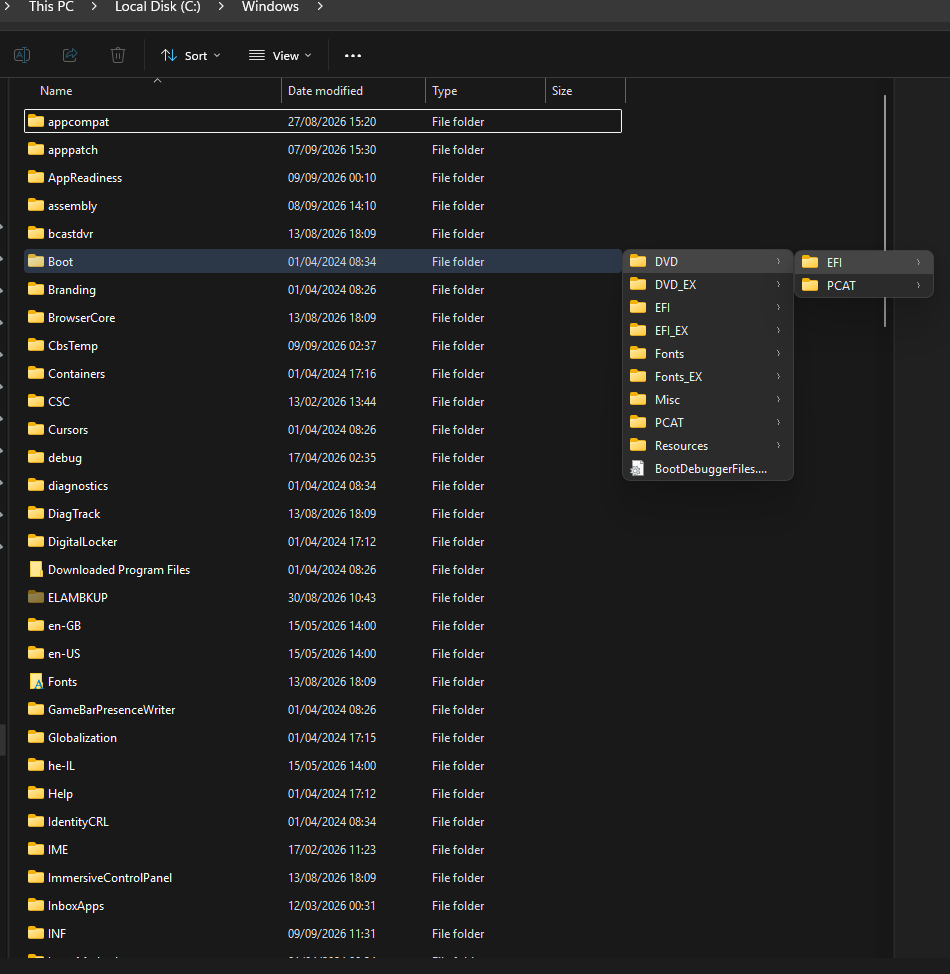
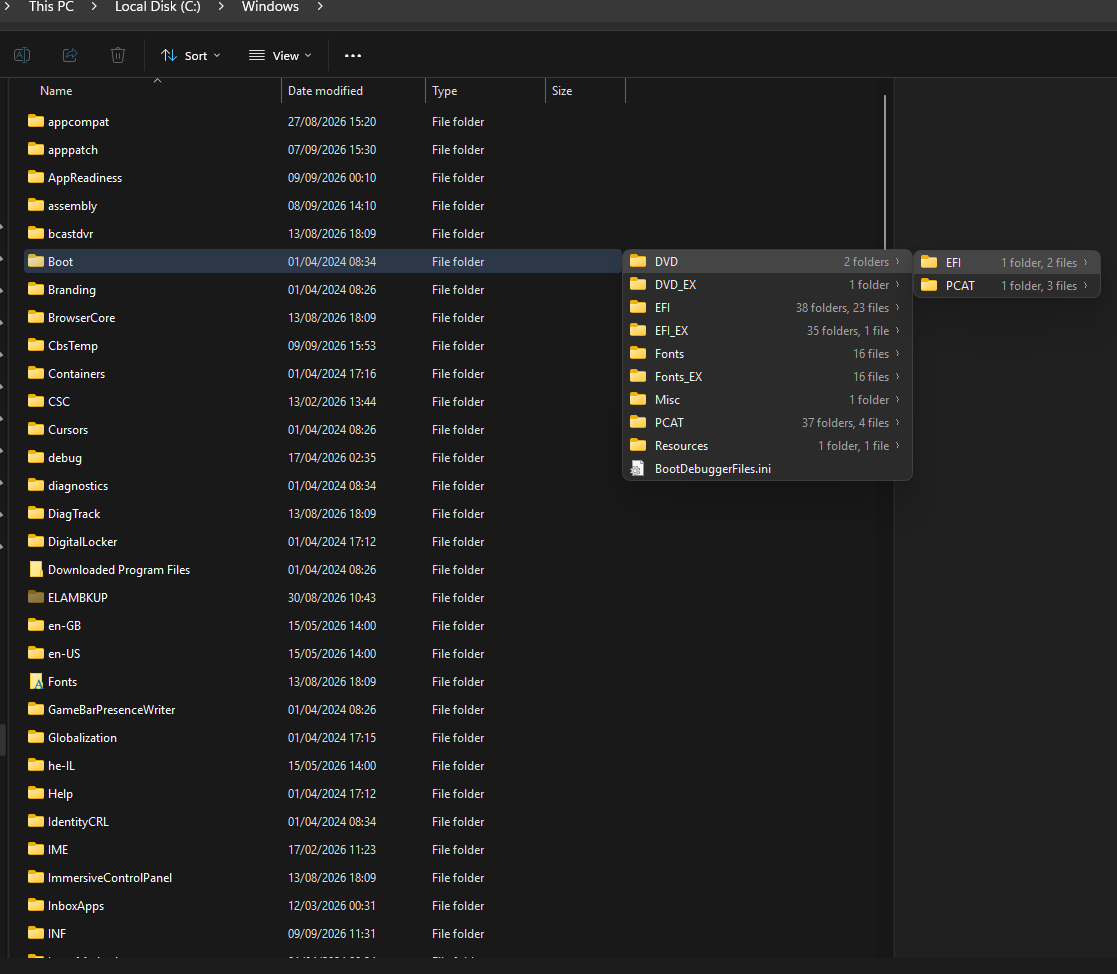
Annotate folder rows with what they hold
A folder row now reads "8 folders, 1 file", right aligned and dimmed, so a
busy folder is obvious before opening it. Behind a tray toggle, nested under
subfolder tips.

Counts are immediate children only. Recursive totals were considered and
dropped: they mean walking a whole tree, which is why Explorer itself shows no
folder size in a details view. Counting also stops at 2000 entries and reports
"2000+ items", so a single enormous folder cannot hold up a tip.

Measured rather than assumed: listing C:\Windows, whose children include
WinSxS and System32, costs 192ms with counting against 13ms for an ordinary
folder. With counts off the cost disappears - the code then only asks whether
a folder is empty, which stops at its first entry rather than reading the
directory.

Also widens a tip when it carries a second column, and gives the name column a
few pixels of slack: GetTextExtentPoint32W and DrawTextW disagree by a pixel,
so an exactly-sized column was ellipsising names that fitted.

diff --git a/src/ExplorerExtras/core/ShellItems.cpp b/src/ExplorerExtras/core/ShellItems.cpp
@@ -7,8 +7,10 @@
 #include <wrl/client.h>
 
 #include <algorithm>
+#include <cstdio>
 
 #include "Logging.h"
+#include "Settings.h"
 
 using Microsoft::WRL::ComPtr;
 
@@ -23,6 +25,45 @@ std::wstring DisplayNameOf(IShellItem* item, SIGDN form) {
     return value;
 }
 
+// Counting stops here. A handful of folders on any machine hold six figures of
+// entries, and a tip listing hundreds of folders must not pay for that; past
+// this point the exact number tells the user nothing anyway.
+constexpr int kMaxCountedChildren = 2000;
+
+// Immediate children only. Recursive totals were considered and rejected: they
+// mean walking whole trees, which is why Explorer itself does not show folder
+// sizes in a details view.
+void CountChildren(const std::wstring& path, ShellEntry* entry) {
+    std::wstring pattern = path;
+    if (pattern.empty()) return;
+    if (pattern.back() != L'\\') pattern += L'\\';
+    pattern += L'*';
+
+    WIN32_FIND_DATAW found{};
+    const HANDLE search = FindFirstFileExW(pattern.c_str(), FindExInfoBasic, &found,
+                                           FindExSearchNameMatch, nullptr, 0);
+    if (search == INVALID_HANDLE_VALUE) return;
+
+    entry->counted = true;
+    do {
+        const wchar_t* name = found.cFileName;
+        if (name[0] == L'.' && (name[1] == L'\0' || (name[1] == L'.' && name[2] == L'\0'))) continue;
+
+        if (found.dwFileAttributes & FILE_ATTRIBUTE_DIRECTORY) {
+            ++entry->child_folders;
+        } else {
+            ++entry->child_files;
+        }
+
+        if (entry->child_folders + entry->child_files >= kMaxCountedChildren) {
+            entry->capped = true;
+            break;
+        }
+    } while (FindNextFileW(search, &found));
+
+    FindClose(search);
+}
+
 int IconIndexFor(const std::wstring& path) {
     SHFILEINFOW info{};
     const DWORD_PTR result = SHGetFileInfoW(path.c_str(), 0, &info, sizeof(info),
@@ -31,6 +72,28 @@ int IconIndexFor(const std::wstring& path) {
 }
 
 }  // namespace
+
+std::wstring DescribeChildCount(const ShellEntry& entry) {
+    if (!entry.is_folder || !entry.counted) return {};
+
+    const int folders = entry.child_folders;
+    const int files = entry.child_files;
+    if (folders + files == 0) return {};
+
+    wchar_t buffer[64];
+    if (entry.capped) {
+        // The breakdown would be misleading once counting stopped early.
+        _snwprintf_s(buffer, _TRUNCATE, L"%d+ items", folders + files);
+    } else if (folders > 0 && files > 0) {
+        _snwprintf_s(buffer, _TRUNCATE, L"%d %s, %d %s", folders,
+                     folders == 1 ? L"folder" : L"folders", files, files == 1 ? L"file" : L"files");
+    } else if (folders > 0) {
+        _snwprintf_s(buffer, _TRUNCATE, L"%d %s", folders, folders == 1 ? L"folder" : L"folders");
+    } else {
+        _snwprintf_s(buffer, _TRUNCATE, L"%d %s", files, files == 1 ? L"file" : L"files");
+    }
+    return buffer;
+}
 
 HBITMAP LoadThumbnail(const std::wstring& path, int max_edge) {
     ComPtr<IShellItemImageFactory> factory;
@@ -190,10 +253,19 @@ std::vector<ShellEntry> EnumerateFolder(const std::wstring& folder_path, size_t 
         entry.icon_index = entry.parsing_path.empty() ? -1 : IconIndexFor(entry.parsing_path);
 
         if (entry.is_folder && !entry.parsing_path.empty()) {
-            // One FindFirstFile per folder. Skipped for UNC paths, where the
-            // round trip is not worth it just to decide whether to draw an arrow.
+            // One directory pass per folder. Skipped for UNC paths, where the
+            // round trip is not worth it just to annotate a row.
             const bool unc = entry.parsing_path.rfind(L"\\\\", 0) == 0;
-            entry.has_children = unc || !PathIsDirectoryEmptyW(entry.parsing_path.c_str());
+            if (unc) {
+                entry.has_children = true;  // assume so rather than pay to find out
+            } else if (Config().folderItemCounts.load(std::memory_order_relaxed)) {
+                CountChildren(entry.parsing_path, &entry);
+                entry.has_children = entry.child_folders + entry.child_files > 0;
+            } else {
+                // Not showing counts: only ever ask whether it is empty, which
+                // stops at the first entry instead of reading the directory.
+                entry.has_children = !PathIsDirectoryEmptyW(entry.parsing_path.c_str());
+            }
         }
 
         entries.push_back(std::move(entry));

diff --git a/src/ExplorerExtras/ui/TipWindow.cpp b/src/ExplorerExtras/ui/TipWindow.cpp
@@ -18,6 +18,8 @@ constexpr UINT kExpandDelayMs = 250;
 constexpr int kMaxRows = 28;
 constexpr int kMinWidthDip = 140;
 constexpr int kMaxWidthDip = 420;
+constexpr int kMaxWidthWithCountsDip = 560;
+constexpr int kCountGapDip = 20;
 
 int Scale(int dip, UINT dpi) {
     return MulDiv(dip, static_cast<int>(dpi), 96);
@@ -87,18 +89,34 @@ SIZE TipWindow::Measure(const RECT& work_area) {
     row_height_ = std::max<int>(Scale(icon_size_, dpi_) + Scale(6, dpi_), tm.tmHeight + Scale(8, dpi_));
 
     int widest = 0;
+    int widest_count = 0;
     for (const auto& entry : entries_) {
         SIZE extent{};
         GetTextExtentPoint32W(dc, entry.display_name.c_str(),
                               static_cast<int>(entry.display_name.size()), &extent);
         widest = std::max(widest, static_cast<int>(extent.cx));
+
+        const std::wstring count = DescribeChildCount(entry);
+        if (count.empty()) continue;
+        SIZE count_extent{};
+        GetTextExtentPoint32W(dc, count.c_str(), static_cast<int>(count.size()), &count_extent);
+        widest_count = std::max(widest_count, static_cast<int>(count_extent.cx));
     }
 
     SelectObject(dc, previous);
     ReleaseDC(window_, dc);
 
-    const int width = std::clamp(text_left_ + widest + chevron_ + pad_, Scale(kMinWidthDip, dpi_),
-                                 Scale(kMaxWidthDip, dpi_));
+    // A couple of pixels of slack: GetTextExtentPoint32W and DrawTextW do not
+    // agree to the pixel, and an exactly-sized column ellipsises a name that
+    // would otherwise fit.
+    widest += Scale(6, dpi_);
+    count_column_ = widest_count;
+    const int gap = widest_count > 0 ? Scale(kCountGapDip, dpi_) : 0;
+    // Allow a wider tip when there is a second column, so names are not
+    // squeezed into ellipses to make room for the counts.
+    const int max_width = Scale(widest_count > 0 ? kMaxWidthWithCountsDip : kMaxWidthDip, dpi_);
+    const int width = std::clamp(text_left_ + widest + gap + widest_count + chevron_ + pad_,
+                                 Scale(kMinWidthDip, dpi_), max_width);
 
     const int room = (work_area.bottom - work_area.top) / std::max(row_height_, 1) - 1;
     const int rows = static_cast<int>(entries_.size()) + (truncated_ ? 1 : 0);
@@ -325,12 +343,24 @@ void TipWindow::OnPaint() {
                            row.top + (row_height_ - Scale(icon_size_, dpi_)) / 2, ILD_TRANSPARENT);
         }
 
+        const std::wstring count = DescribeChildCount(entry);
+
         SetTextColor(memory, palette.text);
         RECT text = row;
         text.left += text_left_;
         text.right -= chevron_ + pad_;
+        if (count_column_ > 0) text.right -= count_column_ + Scale(kCountGapDip, dpi_);
         DrawTextW(memory, entry.display_name.c_str(), -1, &text,
                   DT_SINGLELINE | DT_VCENTER | DT_END_ELLIPSIS | DT_NOPREFIX);
+
+        if (!count.empty()) {
+            SetTextColor(memory, palette.dim);
+            RECT counts = row;
+            counts.right = client.right - pad_ - chevron_;
+            counts.left = counts.right - count_column_;
+            DrawTextW(memory, count.c_str(), -1, &counts,
+                      DT_SINGLELINE | DT_VCENTER | DT_RIGHT | DT_NOPREFIX);
+        }
 
         if (entry.is_folder && entry.has_children) {
             // A small chevron, drawn rather than glyphed so it needs no font.

diff --git a/src/ExplorerExtras/core/Settings.cpp b/src/ExplorerExtras/core/Settings.cpp
@@ -34,6 +34,7 @@ Settings LoadSettings() {
     s.enabled = ReadBool(path, L"Enabled", s.enabled);
     s.navigateUpOnDoubleClick = ReadBool(path, L"NavigateUpOnDoubleClick", s.navigateUpOnDoubleClick);
     s.subfolderTips = ReadBool(path, L"SubfolderTips", s.subfolderTips);
+    s.folderItemCounts = ReadBool(path, L"FolderItemCounts", s.folderItemCounts);
     s.filePreviews = ReadBool(path, L"FilePreviews", s.filePreviews);
     s.mediaPlayback = ReadBool(path, L"MediaPlayback", s.mediaPlayback);
     s.mediaAutoPlay = ReadBool(path, L"MediaAutoPlay", s.mediaAutoPlay);
@@ -47,6 +48,7 @@ void SaveSettings(const Settings& settings) {
     WriteBool(path, L"Enabled", settings.enabled);
     WriteBool(path, L"NavigateUpOnDoubleClick", settings.navigateUpOnDoubleClick);
     WriteBool(path, L"SubfolderTips", settings.subfolderTips);
+    WriteBool(path, L"FolderItemCounts", settings.folderItemCounts);
     WriteBool(path, L"FilePreviews", settings.filePreviews);
     WriteBool(path, L"MediaPlayback", settings.mediaPlayback);
     WriteBool(path, L"MediaAutoPlay", settings.mediaAutoPlay);
@@ -62,6 +64,7 @@ void ApplyToConfig(const Settings& settings) {
     Config().enabled.store(settings.enabled, std::memory_order_relaxed);
     Config().navigateUpOnDoubleClick.store(settings.navigateUpOnDoubleClick, std::memory_order_relaxed);
     Config().subfolderTips.store(settings.subfolderTips, std::memory_order_relaxed);
+    Config().folderItemCounts.store(settings.folderItemCounts, std::memory_order_relaxed);
     Config().filePreviews.store(settings.filePreviews, std::memory_order_relaxed);
     Config().mediaPlayback.store(settings.mediaPlayback, std::memory_order_relaxed);
     Config().mediaAutoPlay.store(settings.mediaAutoPlay, std::memory_order_relaxed);

diff --git a/src/ExplorerExtras/core/ShellItems.h b/src/ExplorerExtras/core/ShellItems.h
@@ -19,6 +19,13 @@ struct ShellEntry {
     // Folders only. An empty folder gets no expand chevron, because offering to
     // open something with nothing in it is a lie.
     bool has_children = false;
+    // Immediate children, not recursive. counted is false where we did not
+    // look (a network path); capped is true where we stopped early, so the
+    // figures shown are a floor rather than a total.
+    bool counted = false;
+    bool capped = false;
+    int child_folders = 0;
+    int child_files = 0;
     int icon_index = -1;  // index into SystemSmallImageList()
 };
 
@@ -39,6 +46,11 @@ std::vector<ShellEntry> EnumerateFolder(const std::wstring& folder_path, size_t 
                                         bool* truncated);
 
 // The shared system small-icon image list. Never destroy it.
+// The count annotation for a folder row: "3 folders, 12 files", or
+// "2000+ items" where counting was cut short. Empty for files, for folders we
+// did not count, and for empty folders.
+std::wstring DescribeChildCount(const ShellEntry& entry);
+
 // Shell thumbnail for a file, or null when it has none. Caller owns the bitmap.
 // Synchronous, so only for things known to be quick — embedded album art is,
 // video frames are not (those go through ThumbnailLoader).

diff --git a/src/ExplorerExtras/host/TrayHost.cpp b/src/ExplorerExtras/host/TrayHost.cpp
@@ -141,6 +141,10 @@ void TrayHost::ShowContextMenu() {
                     (settings_.enabled ? MF_ENABLED : MF_GRAYED),
                 IDM_SUBFOLDER_TIPS, L"Subfolder tips on hover");
     AppendMenuW(menu,
+                MF_STRING | (settings_.folderItemCounts ? MF_CHECKED : MF_UNCHECKED) |
+                    (settings_.enabled && settings_.subfolderTips ? MF_ENABLED : MF_GRAYED),
+                IDM_FOLDER_COUNTS, L"    Show item counts on folders");
+    AppendMenuW(menu,
                 MF_STRING | (settings_.filePreviews ? MF_CHECKED : MF_UNCHECKED) |
                     (settings_.enabled ? MF_ENABLED : MF_GRAYED),
                 IDM_FILE_PREVIEWS, L"File previews on hover");
@@ -190,6 +194,11 @@ void TrayHost::OnCommand(UINT id) {
 
         case IDM_SUBFOLDER_TIPS:
             settings_.subfolderTips = !settings_.subfolderTips;
+            PersistAndApply();
+            break;
+
+        case IDM_FOLDER_COUNTS:
+            settings_.folderItemCounts = !settings_.folderItemCounts;
             PersistAndApply();
             break;
 

diff --git a/src/ExplorerExtras/core/Settings.h b/src/ExplorerExtras/core/Settings.h
@@ -9,6 +9,8 @@ struct Settings {
     bool enabled = true;
     bool navigateUpOnDoubleClick = true;
     bool subfolderTips = true;
+    // Annotate folder rows with how many items they hold.
+    bool folderItemCounts = true;
     bool filePreviews = true;
     bool mediaPlayback = true;
     // Only meaningful when mediaPlayback is on: whether hovering starts
@@ -27,6 +29,7 @@ struct RuntimeConfig {
     std::atomic<bool> enabled{true};
     std::atomic<bool> navigateUpOnDoubleClick{true};
     std::atomic<bool> subfolderTips{true};
+    std::atomic<bool> folderItemCounts{true};
     std::atomic<bool> filePreviews{true};
     std::atomic<bool> mediaPlayback{true};
     std::atomic<bool> mediaAutoPlay{true};

diff --git a/src/ExplorerExtras/features/SubfolderTipFeature.cpp b/src/ExplorerExtras/features/SubfolderTipFeature.cpp
@@ -174,8 +174,12 @@ void SubfolderTipFeature::TryOpenAt(POINT cursor) {
         return;
     }
 
+    LARGE_INTEGER enumerate_start;
+    QueryPerformanceCounter(&enumerate_start);
     bool truncated = false;
     std::vector<ShellEntry> entries = EnumerateFolder(child_path, kMaxEntries, &truncated);
+    EE_INFO(L"enumerated %zu entries of '%s' in %.0fms", entries.size(), child_path.c_str(),
+            ElapsedMs(enumerate_start));
     if (entries.empty() && !truncated) return;  // empty folder: nothing to show
 
     auto tip = std::make_unique<TipWindow>();

diff --git a/src/ExplorerExtras/ui/TipWindow.h b/src/ExplorerExtras/ui/TipWindow.h
@@ -94,6 +94,7 @@ private:
     int pad_ = 8;
     int text_left_ = 32;
     int chevron_ = 16;
+    int count_column_ = 0;  // width reserved for the folder item counts
     int visible_rows_ = 0;
     int scroll_ = 0;
     int hover_ = -1;

diff --git a/src/ExplorerExtras/resource.h b/src/ExplorerExtras/resource.h
@@ -14,3 +14,4 @@
 #define IDM_MEDIA_PLAYBACK 40010
 #define IDM_RESET_PREVIEWS 40011
 #define IDM_MEDIA_AUTOPLAY 40012
+#define IDM_FOLDER_COUNTS 40013

diff --git a/README.md b/README.md
@@ -80,6 +80,15 @@ down a list discards the ones overtaken on the way.
 Both are independently switchable from the tray: subfolder tips and file
 previews are separate toggles.
 
+Those counts are **immediate children only, never recursive**. A recursive total
+means walking a whole tree, which is why Explorer itself shows no folder size in
+a details view. Counting also stops at 2000 entries per folder and reports
+"2000+ items", so one enormous folder cannot hold up a tip: listing `C:\Windows`
+costs 192ms with counting against 13ms for an ordinary folder, and without the
+cap it would be far worse. Switch the counts off and the cost disappears
+entirely — the code then only asks whether a folder is empty, which stops at its
+first entry.
+
 **Window tabs** get the same treatment: hovering the **leading third** of a tab
 drops its folder's contents down beneath it. Only that third, so moving across a
 tab on the way to clicking it does nothing; and never the active tab, which is
@@ -121,7 +130,9 @@ new window, falling back to the default verb where that verb is absent.
 
 Hover a folder and its contents appear beside it. Hover a folder in that list
 and it cascades again, as deep as you like. Folders with nothing in them get no
-chevron, so the arrow never promises something that isn't there.
+chevron, so the arrow never promises something that isn't there. Each folder is
+annotated with what it holds — "8 folders, 1 file" — so a busy folder is
+obvious before you open it.
 
 ![Subfolder tips cascading from C:\Windows\Boot](docs/subfolder-tip.png)
 
